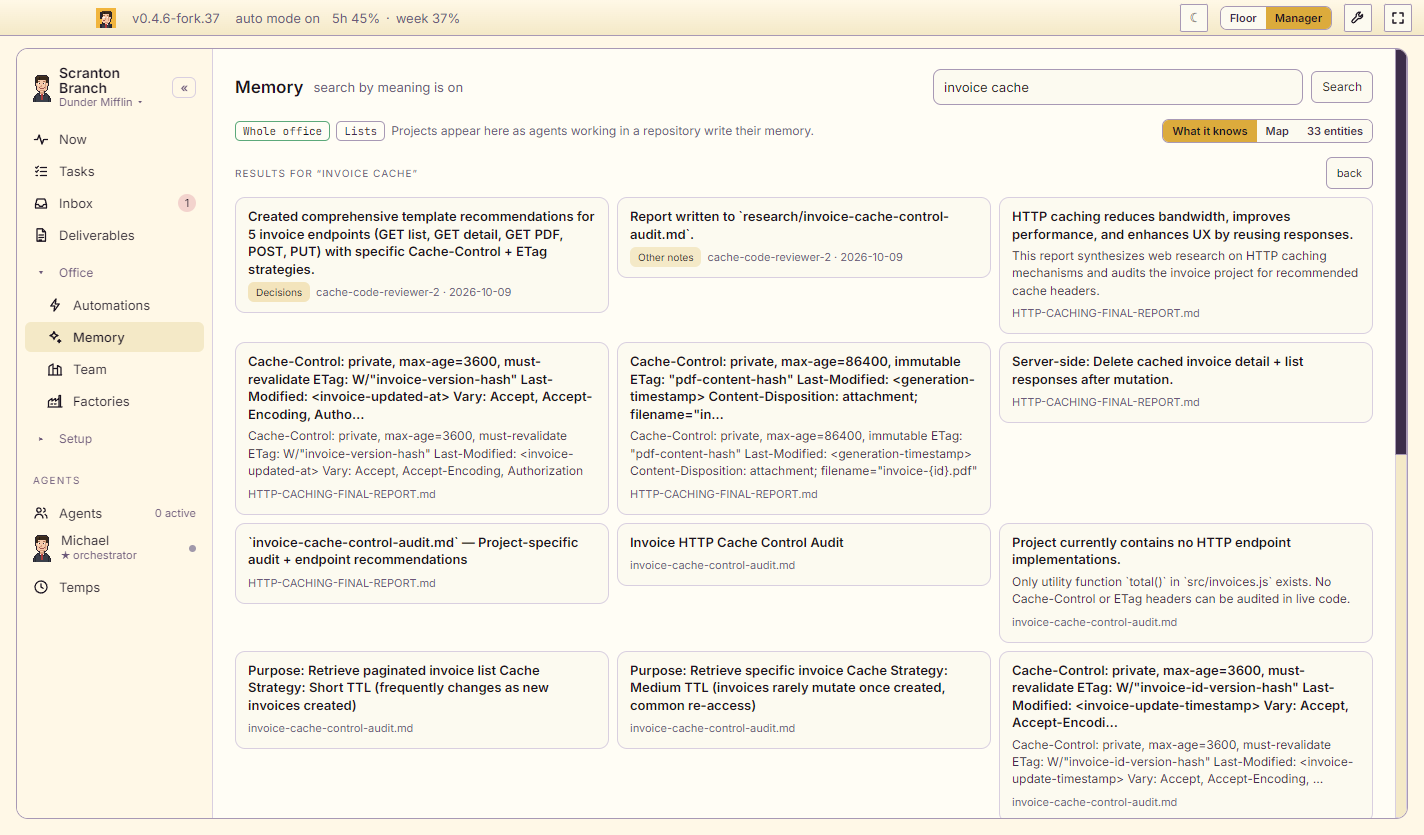
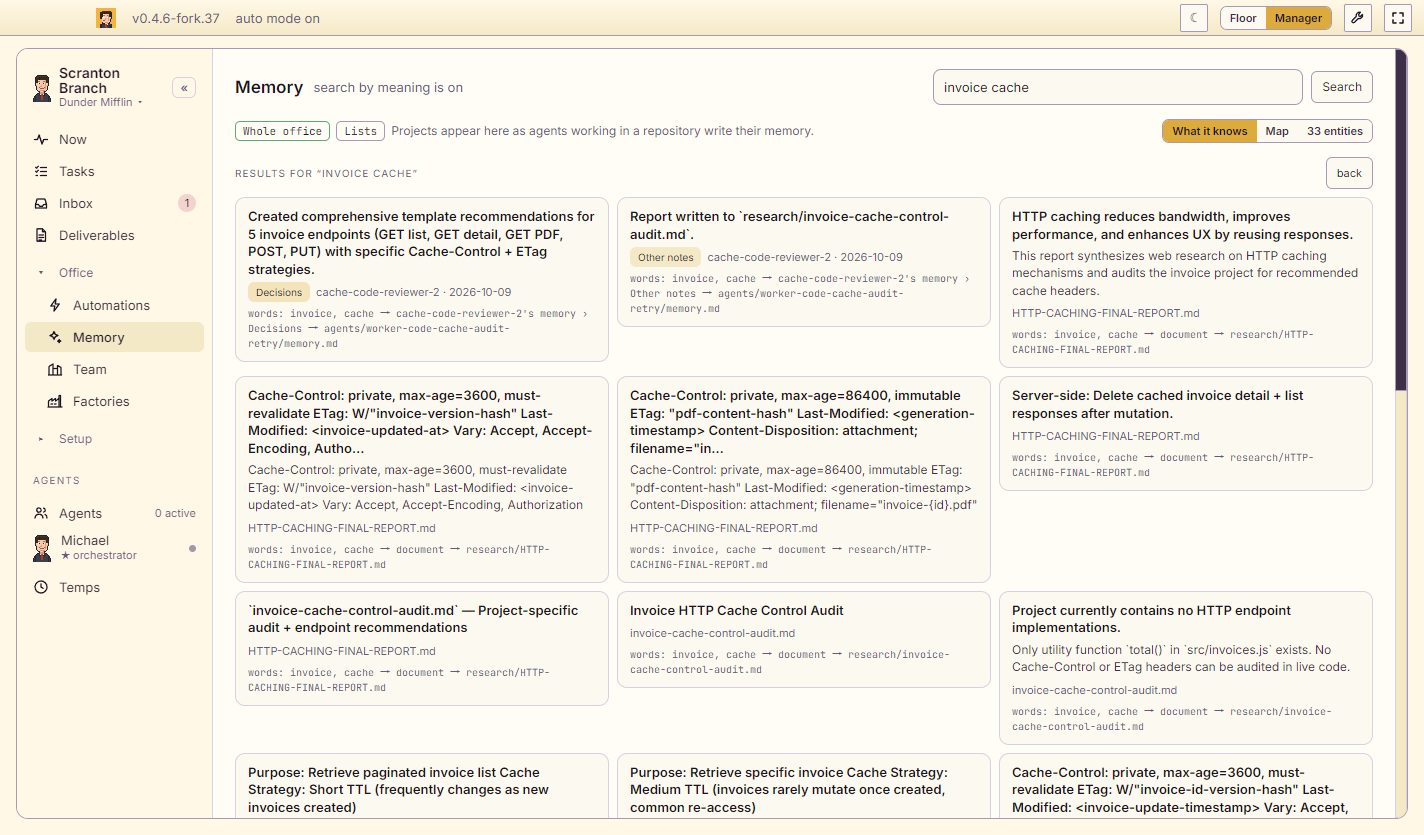
Memory search shows how it found each result
Every result carries its path: the words that matched (or 'by meaning' with
the score), where it lives (an agent's memory and section, a document, the
board) and the file it came from, e.g. 'words: invoice, cache → cache-code-
reviewer-2's memory › Decisions → agents/worker-…/memory.md'.

diff --git a/src/renderer/src/pro/MemoryView.tsx b/src/renderer/src/pro/MemoryView.tsx
@@ -20,6 +20,8 @@ interface Hit {
   source: string;
   when?: string;
   section?: string;
+  /** How search got here: what matched, where it lives, the file it came from. */
+  path?: string[];
 }
 
 /** A section's colour, from its tone (design tokens only). */
@@ -131,16 +133,30 @@ export function MemoryView({ tasks, roster }: { tasks: KeyedTask[]; roster: Agen
     setBusy(true);
     const ws = words(query);
     const out: Hit[] = [];
-    for (const e of entries) if (inScope(e.project) && score(e.text, ws) >= 0.6) out.push({ ...titled(e.text), source: e.agent, when: e.date, section: e.section });
-    for (const d of scopedDocs) if (d.kind === 'doc') for (const n of splitNotes(d.text)) if (n.length > 8 && score(n, ws) >= 0.6) out.push({ ...titled(n), source: d.label });
-    for (const t of tasks) if (score(`${t.key ?? ''} ${t.title} ${t.description ?? ''}`, ws) >= 0.5) out.push({ title: `${t.key ? `${t.key} ` : ''}${t.title}`, source: tr('pro.memory.ticket', { status: tr(`pro.tasks.col_${t.status}`) }) });
+    const matched = (text: string) => tr('pro.memory.pathWords', { words: ws.filter((w) => text.toLowerCase().includes(w)).join(', ') });
+    const sectionName = (s: string) => tr(`pro.memory.section.${sectionDef(s).key}`, { defaultValue: sectionDef(s).label });
+    for (const e of entries) if (inScope(e.project) && score(e.text, ws) >= 0.6) {
+      out.push({ ...titled(e.text), source: e.agent, when: e.date, section: e.section,
+        path: [matched(e.text), tr('pro.memory.pathMemory', { agent: e.agent, section: sectionName(e.section) }), ...(e.agentId ? [`agents/${e.agentId}/memory.md`] : [])] });
+    }
+    for (const d of scopedDocs) if (d.kind === 'doc') for (const n of splitNotes(d.text)) if (n.length > 8 && score(n, ws) >= 0.6) {
+      out.push({ ...titled(n), source: d.label, path: [matched(n), tr('pro.memory.pathDoc'), d.id.replace(/^doc:/, '')] });
+    }
+    for (const t of tasks) {
+      const text = `${t.key ?? ''} ${t.title} ${t.description ?? ''}`;
+      if (score(text, ws) >= 0.5) out.push({ title: `${t.key ? `${t.key} ` : ''}${t.title}`, source: tr('pro.memory.ticket', { status: tr(`pro.tasks.col_${t.status}`) }),
+        path: [matched(text), tr('pro.memory.pathTicket', { status: tr(`pro.tasks.col_${t.status}`) })] });
+    }
     if (semantic) {
       const palace = await window.cth.searchMemory(query).catch(() => null);
       if (palace?.ok) {
         setMeaningError(null);
         for (const h of parsePalaceSearch(palace.output).slice(0, 6)) {
           const who = roster.find((a) => a.id === h.wing)?.name ?? h.wing;
-          if (!out.some((o) => h.text.includes(o.title.slice(0, 40)))) out.push({ ...titled(h.text), source: `${who}${h.source ? ` · ${h.source}` : ''} · ${tr('pro.memory.byMeaning')}` });
+          if (!out.some((o) => h.text.includes(o.title.slice(0, 40)))) {
+            out.push({ ...titled(h.text), source: `${who}${h.source ? ` · ${h.source}` : ''} · ${tr('pro.memory.byMeaning')}`,
+              path: [tr('pro.memory.pathMeaning', { score: h.score != null ? h.score.toFixed(2) : '–' }), who, ...(h.source ? [h.room ? `${h.room} › ${h.source}` : h.source] : [])] });
+          }
         }
       } else {
         // Not a result: the exact matches above still stand, and the header says meaning search is off for now.
@@ -251,6 +267,11 @@ function NoteCard({ hit }: { hit: Hit }) {
         {hit.section && <span className="pro-badge" style={{ background: toneVar(sectionDef(hit.section).tone), fontSize: 10 }}>{t(`pro.memory.section.${sectionDef(hit.section).key}`, { defaultValue: sectionDef(hit.section).label })}</span>}
         <span className="pro-sub" style={{ fontSize: 11 }}>{hit.source}{hit.when ? ` · ${hit.when}` : ''}</span>
       </span>
+      {hit.path && hit.path.length > 0 && (
+        <span className="pro-mono pro-sub" title={t('pro.memory.pathTitle')} style={{ fontSize: 10, lineHeight: 1.5, overflowWrap: 'anywhere' }}>
+          {hit.path.map((step, i) => <span key={i}>{i > 0 && <span aria-hidden> → </span>}{step}</span>)}
+        </span>
+      )}
     </button>
   );
 }
